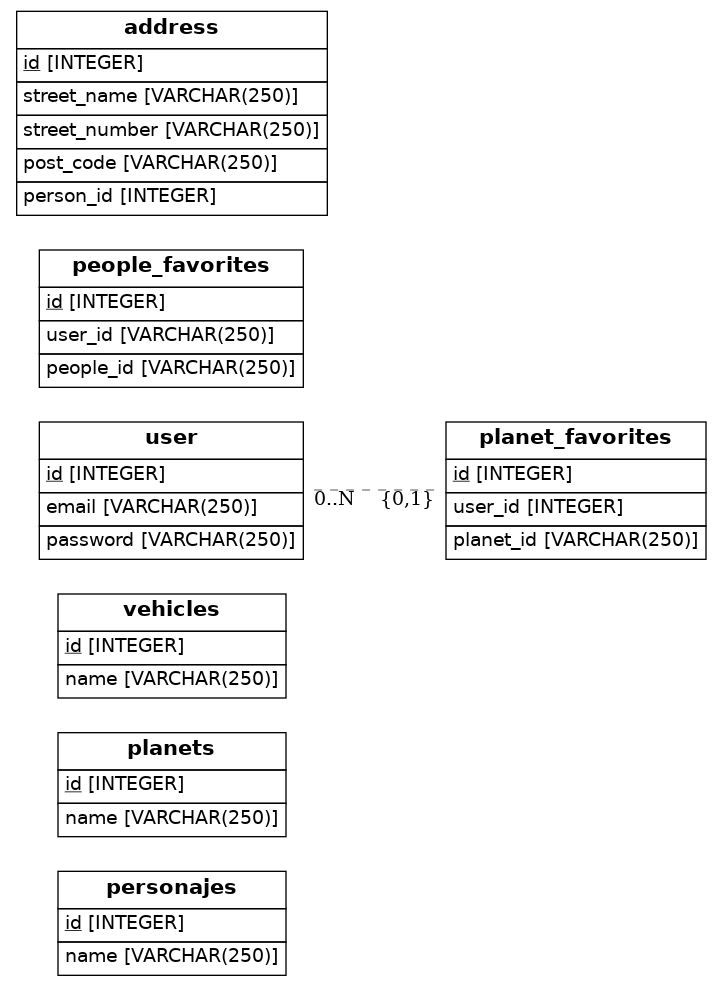
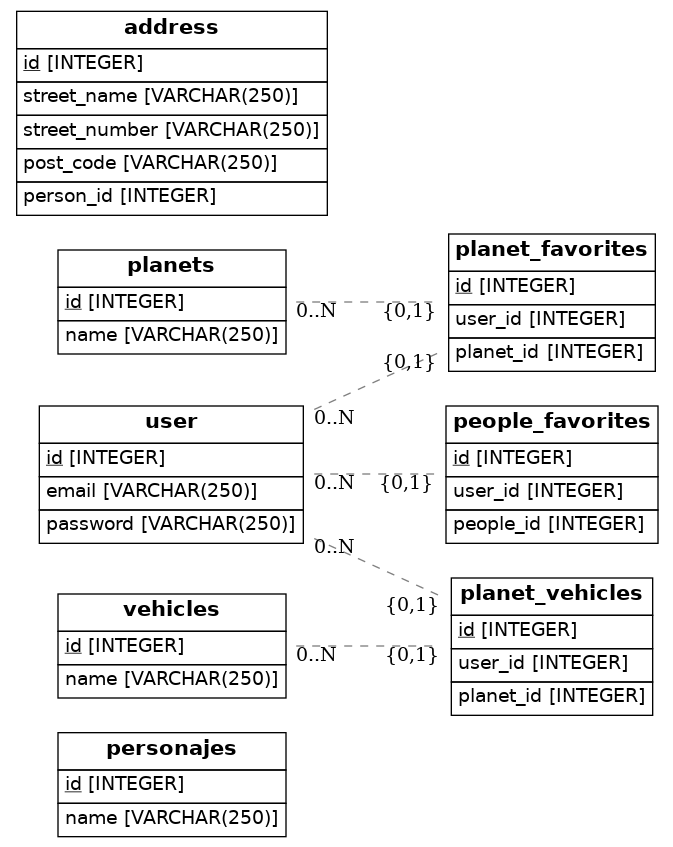
relations

diff --git a/src/models.py b/src/models.py
@@ -37,14 +37,20 @@ class User(Base):
 class Favorites_people(Base):
     __tablename__ = 'people_favorites'
     id = Column(Integer, primary_key=True)
-    user_id = Column(String(250), nullable=False)
-    people_id = Column(String(250), nullable=False)
+    user_id = Column(Integer, ForeignKey('user.id'))
+    people_id = Column(Integer, ForeignKey('people.id'))
 
 class Favorites_planet(Base):
     __tablename__ = 'planet_favorites'
     id = Column(Integer, primary_key=True)
     user_id = Column(Integer, ForeignKey('user.id'))
-    planet_id = Column(String(250), nullable=False)
+    planet_id = Column(Integer, ForeignKey('planets.id'))
+
+class Favorites_vehicles(Base):
+    __tablename__ = 'planet_vehicles'
+    id = Column(Integer, primary_key=True)
+    user_id = Column(Integer, ForeignKey('user.id'))
+    planet_id = Column(Integer, ForeignKey('vehicles.id'))
     
 
 class Planets(Base):
